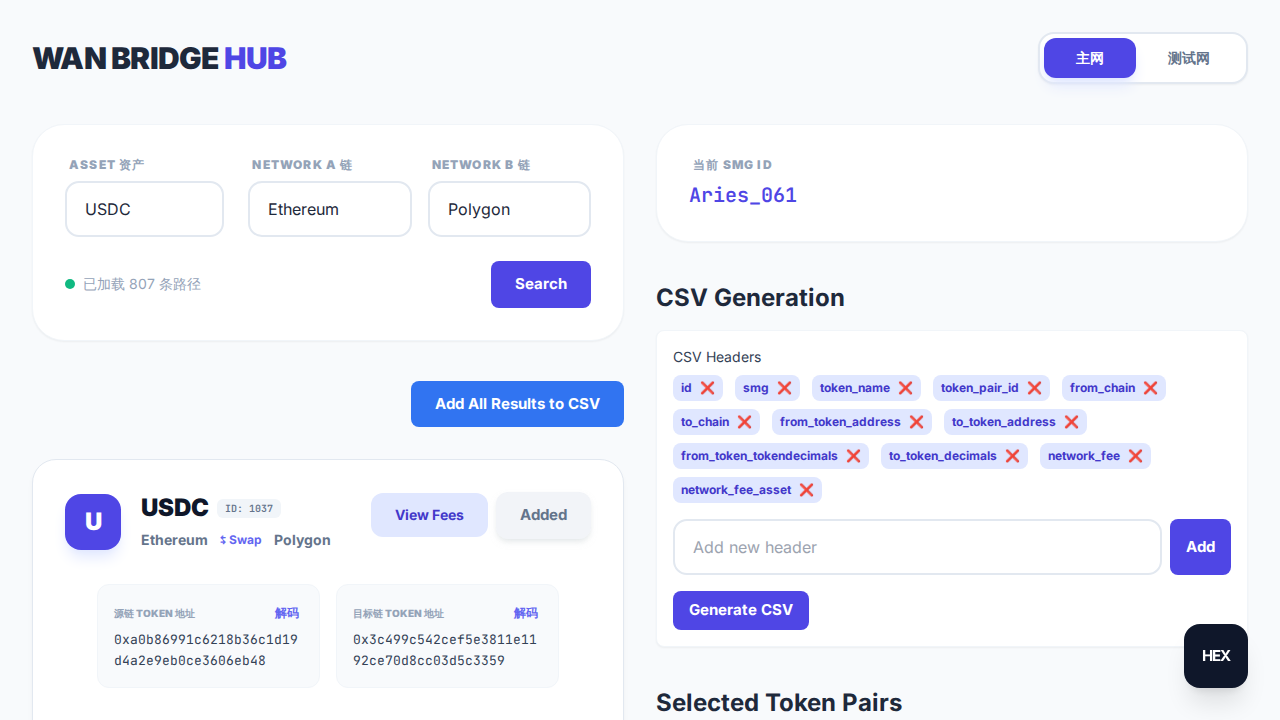
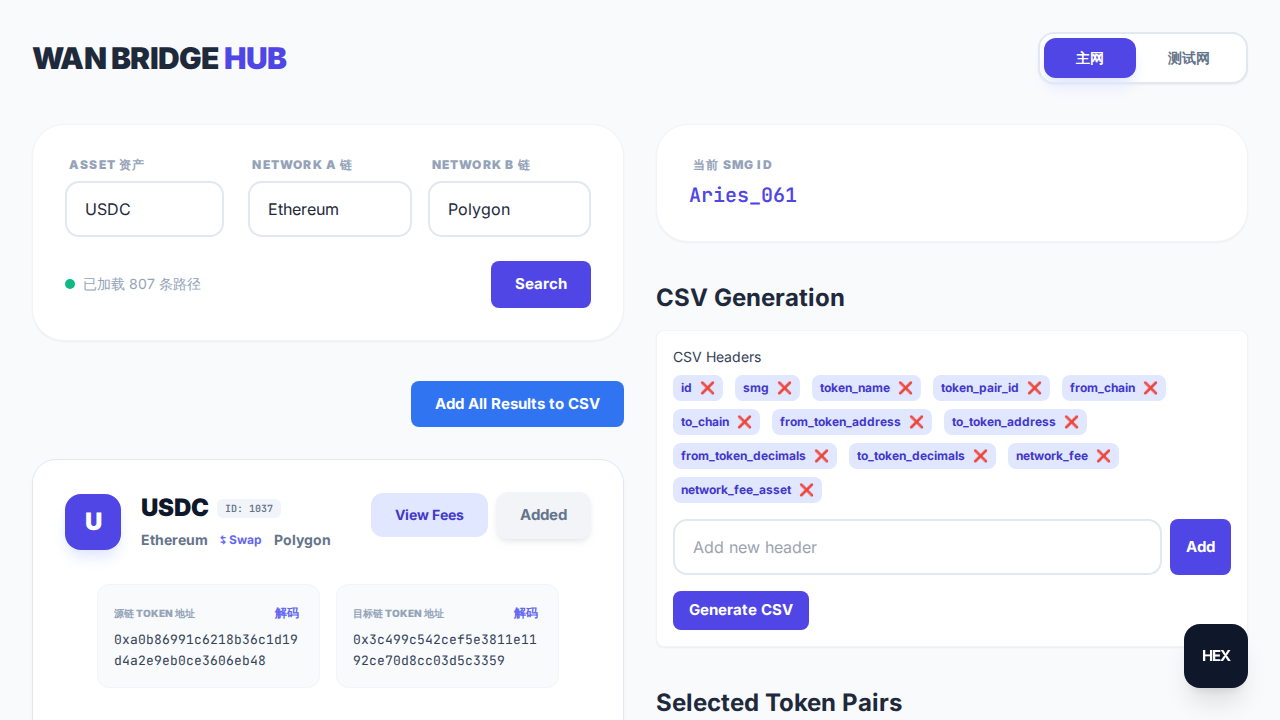
fix: Update CSV header from from_token_tokendecimals to from_token_decimals
This commit updates the CSV header from 'from_token_tokendecimals' to 'from_token_decimals' as requested by the user. The corresponding data mapping in the `renderSelectedPairs` and `generateCSV` functions has also been updated to reflect this change.

Changed region(s): [[0.5938, 0.6111, 0.9062, 0.6722]]

diff --git a/index.html b/index.html
@@ -130,7 +130,7 @@
         let allPairs = [];
         let selectedPairsData = [];
         let manuallySwappedPairIDs = new Set();
-        let csvHeaders = ['id', 'smg', 'token_name', 'token_pair_id', 'from_chain', 'to_chain', 'from_token_address', 'to_token_address', 'from_token_tokendecimals', 'to_token_decimals', 'network_fee', 'network_fee_asset'];
+        let csvHeaders = ['id', 'smg', 'token_name', 'token_pair_id', 'from_chain', 'to_chain', 'from_token_address', 'to_token_address', 'from_token_decimals', 'to_token_decimals', 'network_fee', 'network_fee_asset'];
         let baseUrl = "https://bridge-api.wanchain.org/api/";
         let rawSmgID = '';
         let currentRenderedPairs = new Map();
@@ -574,7 +574,7 @@
                     to_chain: p.toChain.chainName,
                     from_token_address: p.fromToken.address,
                     to_token_address: p.toToken.address,
-                    from_token_tokendecimals: p.fromToken.decimals,
+                    from_token_decimals: p.fromToken.decimals,
                     to_token_decimals: p.toToken.decimals,
                     network_fee: p.network_fee,
                     network_fee_asset: p.fromChain.chainType
@@ -642,7 +642,7 @@
                     to_chain: p.toChain.chainName,
                     from_token_address: p.fromToken.address,
                     to_token_address: p.toToken.address,
-                    from_token_tokendecimals: p.fromToken.decimals,
+                    from_token_decimals: p.fromToken.decimals,
                     to_token_decimals: p.toToken.decimals,
                     network_fee: p.network_fee,
                     network_fee_asset: p.fromChain.chainType
